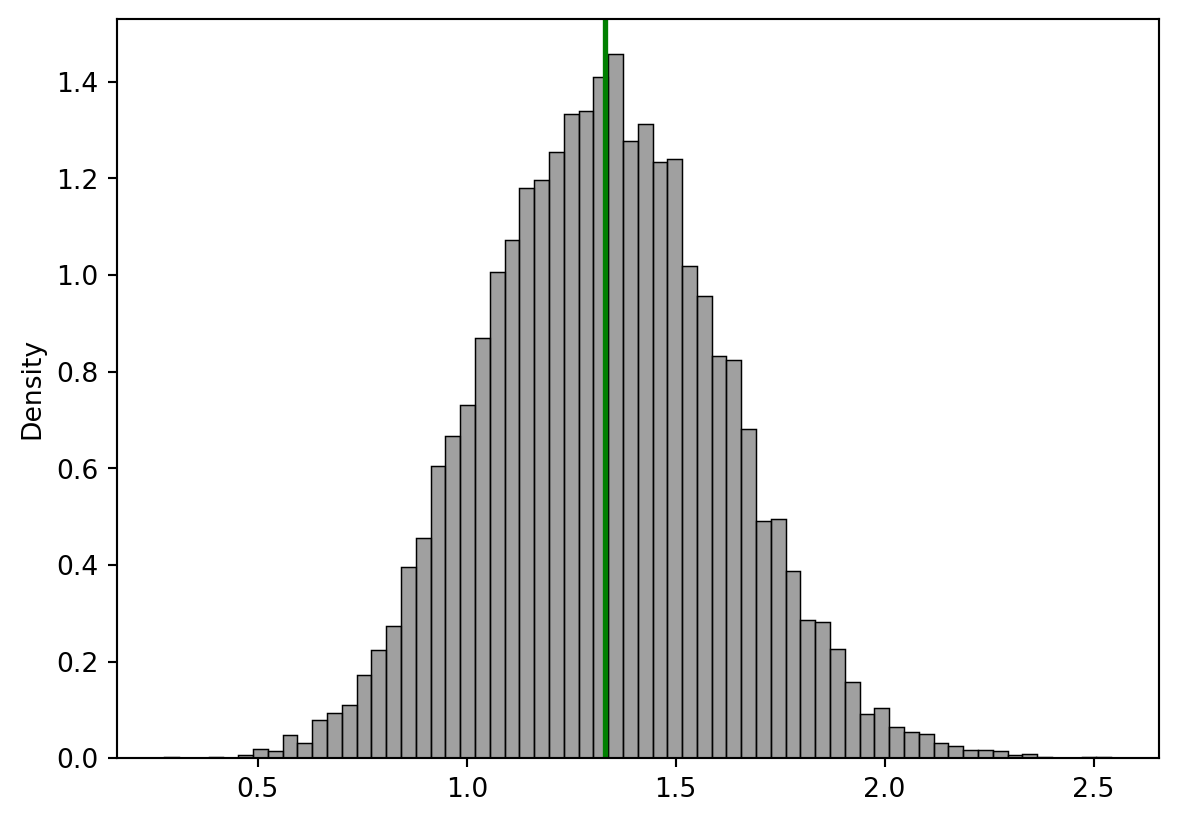
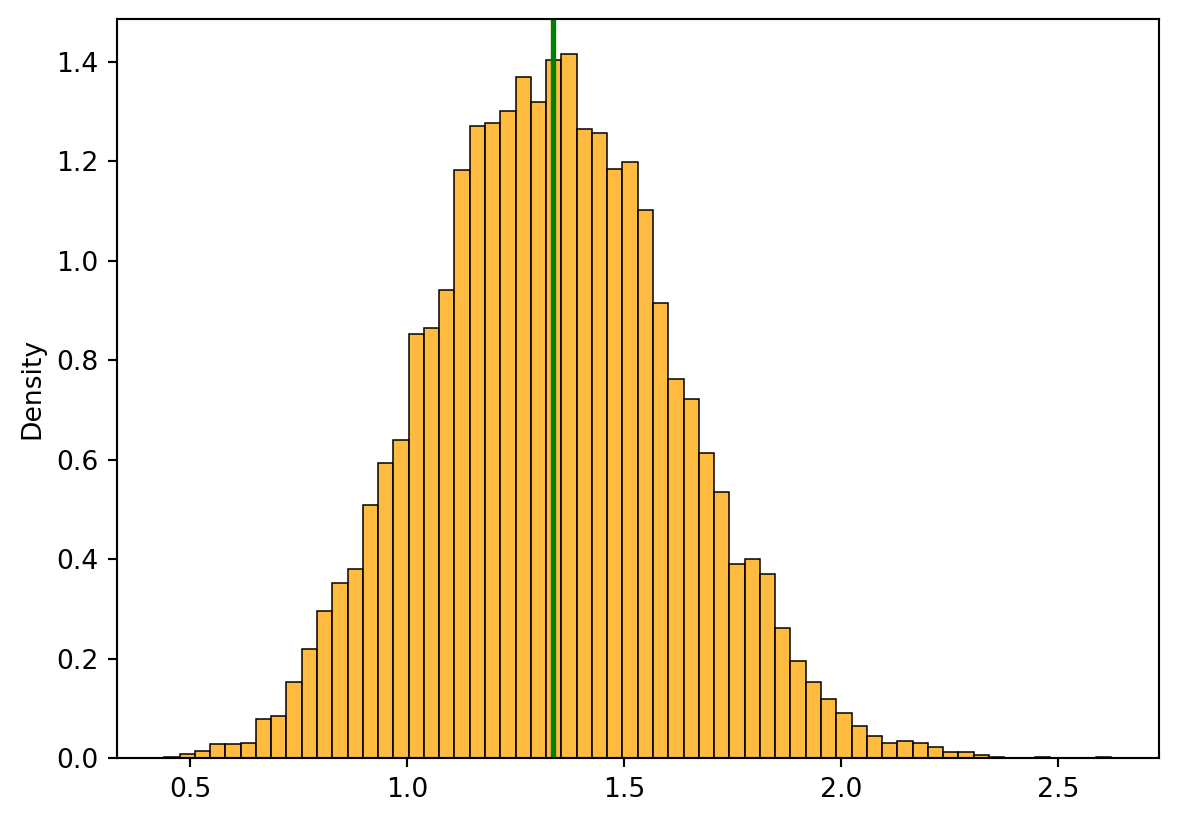
hw4!

diff --git a/docs/posts/hw4/hw4.html b/docs/posts/hw4/hw4.html
@@ -210,7 +210,7 @@ pre > code.sourceCode > span > a:first-child::before { text-decoration: underlin
 </section>
 <section id="분포-그래프에-모분산의-위치에-녹색-막대를-그려주세요." class="level1">
 <h1>2. 분포 그래프에 모분산의 위치에 녹색 막대를 그려주세요.</h1>
-<div id="d2a9d6e8" class="cell" data-execution_count="1">
+<div id="ab9489cf" class="cell" data-execution_count="1">
 <div class="sourceCode cell-code" id="cb1"><pre class="sourceCode python code-with-copy"><code class="sourceCode python"><span id="cb1-1"><a href="#cb1-1" aria-hidden="true" tabindex="-1"></a><span class="co"># s_2 분포</span></span>
 <span id="cb1-2"><a href="#cb1-2" aria-hidden="true" tabindex="-1"></a><span class="im">from</span> scipy.stats <span class="im">import</span> uniform</span>
 <span id="cb1-3"><a href="#cb1-3" aria-hidden="true" tabindex="-1"></a><span class="im">import</span> matplotlib.pyplot <span class="im">as</span> plt</span>
@@ -225,7 +225,7 @@ pre > code.sourceCode > span > a:first-child::before { text-decoration: underlin
 <span id="cb1-12"><a href="#cb1-12" aria-hidden="true" tabindex="-1"></a><span class="co"># 히스토그램 그리기</span></span>
 <span id="cb1-13"><a href="#cb1-13" aria-hidden="true" tabindex="-1"></a><span class="im">import</span> seaborn <span class="im">as</span> sns</span>
 <span id="cb1-14"><a href="#cb1-14" aria-hidden="true" tabindex="-1"></a><span class="im">from</span> scipy.stats <span class="im">import</span> norm</span>
-<span id="cb1-15"><a href="#cb1-15" aria-hidden="true" tabindex="-1"></a>sns.histplot(s_2, stat<span class="op">=</span><span class="st">"density"</span>, color <span class="op">=</span> <span class="st">"gray"</span>)</span>
+<span id="cb1-15"><a href="#cb1-15" aria-hidden="true" tabindex="-1"></a>sns.histplot(s_2, stat<span class="op">=</span><span class="st">"density"</span>, color <span class="op">=</span> <span class="st">"orange"</span>)</span>
 <span id="cb1-16"><a href="#cb1-16" aria-hidden="true" tabindex="-1"></a>plt.axvline(x.var(), color<span class="op">=</span><span class="st">"green"</span>, linewidth <span class="op">=</span> <span class="dv">2</span>)</span>
 <span id="cb1-17"><a href="#cb1-17" aria-hidden="true" tabindex="-1"></a>plt.show()</span>
 <span id="cb1-18"><a href="#cb1-18" aria-hidden="true" tabindex="-1"></a>plt.clf()</span></code><button title="Copy to Clipboard" class="code-copy-button"><i class="bi"></i></button></pre></div>
@@ -240,7 +240,7 @@ pre > code.sourceCode > span > a:first-child::before { text-decoration: underlin
 <pre><code>&lt;Figure size 672x480 with 0 Axes&gt;</code></pre>
 </div>
 </div>
-<div id="e9687a8a" class="cell" data-execution_count="2">
+<div id="11551996" class="cell" data-execution_count="2">
 <div class="sourceCode cell-code" id="cb3"><pre class="sourceCode python code-with-copy"><code class="sourceCode python"><span id="cb3-1"><a href="#cb3-1" aria-hidden="true" tabindex="-1"></a><span class="co"># k_2 분포</span></span>
 <span id="cb3-2"><a href="#cb3-2" aria-hidden="true" tabindex="-1"></a><span class="im">from</span> scipy.stats <span class="im">import</span> uniform</span>
 <span id="cb3-3"><a href="#cb3-3" aria-hidden="true" tabindex="-1"></a><span class="im">import</span> matplotlib.pyplot <span class="im">as</span> plt</span>
@@ -255,13 +255,13 @@ pre > code.sourceCode > span > a:first-child::before { text-decoration: underlin
 <span id="cb3-12"><a href="#cb3-12" aria-hidden="true" tabindex="-1"></a><span class="co"># 히스토그램 그리기</span></span>
 <span id="cb3-13"><a href="#cb3-13" aria-hidden="true" tabindex="-1"></a><span class="im">import</span> seaborn <span class="im">as</span> sns</span>
 <span id="cb3-14"><a href="#cb3-14" aria-hidden="true" tabindex="-1"></a><span class="im">from</span> scipy.stats <span class="im">import</span> norm</span>
-<span id="cb3-15"><a href="#cb3-15" aria-hidden="true" tabindex="-1"></a>sns.histplot(k_2, stat<span class="op">=</span><span class="st">"density"</span>, color <span class="op">=</span> <span class="st">"gray"</span>)</span>
+<span id="cb3-15"><a href="#cb3-15" aria-hidden="true" tabindex="-1"></a>sns.histplot(k_2, stat<span class="op">=</span><span class="st">"density"</span>, color <span class="op">=</span> <span class="st">"orange"</span>)</span>
 <span id="cb3-16"><a href="#cb3-16" aria-hidden="true" tabindex="-1"></a>plt.axvline(x.var(), color<span class="op">=</span><span class="st">"green"</span>,  linewidth <span class="op">=</span> <span class="dv">2</span>)</span>
 <span id="cb3-17"><a href="#cb3-17" aria-hidden="true" tabindex="-1"></a>plt.show()</span></code><button title="Copy to Clipboard" class="code-copy-button"><i class="bi"></i></button></pre></div>
 <div class="cell-output cell-output-display">
 <div>
 <figure class="figure">
-<p><img src="hw4_files/figure-html/cell-3-output-1.png" width="597" height="411" class="figure-img"></p>
+<p><img src="hw4_files/figure-html/cell-3-output-1.png" width="589" height="411" class="figure-img"></p>
 </figure>
 </div>
 </div>

diff --git a/docs/blog.html b/docs/blog.html
@@ -202,7 +202,7 @@ window.Quarto = {
 
 <div class="quarto-listing quarto-listing-container-default" id="listing-listing">
 <div class="list quarto-listing-default">
-<div class="quarto-post image-right" data-index="0" data-categories="bigdata" data-listing-date-sort="1722178800000" data-listing-file-modified-sort="1722254564117" data-listing-date-modified-sort="NaN" data-listing-reading-time-sort="1" data-listing-word-count-sort="149">
+<div class="quarto-post image-right" data-index="0" data-categories="bigdata" data-listing-date-sort="1722178800000" data-listing-file-modified-sort="1722254899577" data-listing-date-modified-sort="NaN" data-listing-reading-time-sort="1" data-listing-word-count-sort="149">
 <div class="thumbnail">
 <p><a href="./posts/hw4/hw4.html" class="no-external"></a></p><a href="./posts/hw4/hw4.html" class="no-external">
 <p class="card-img-top"><img src="posts\hw4\hw4_files\figure-html\cell-2-output-1.png"  class="thumbnail-image card-img"/></p>
